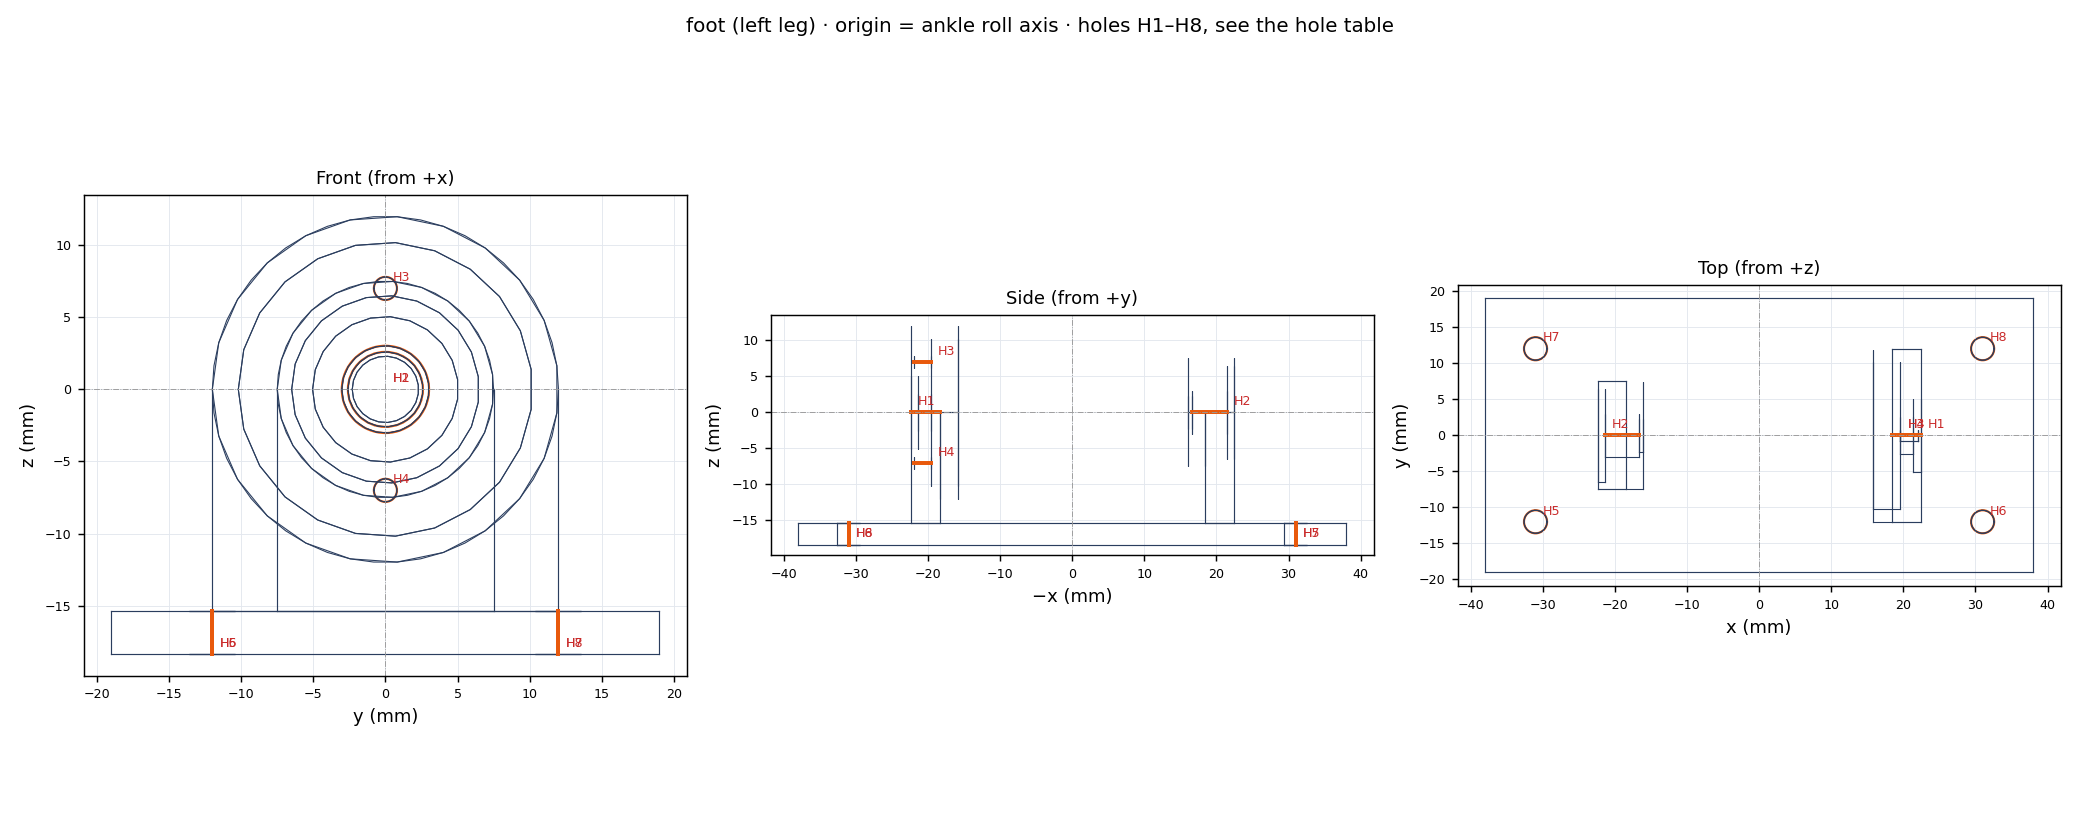
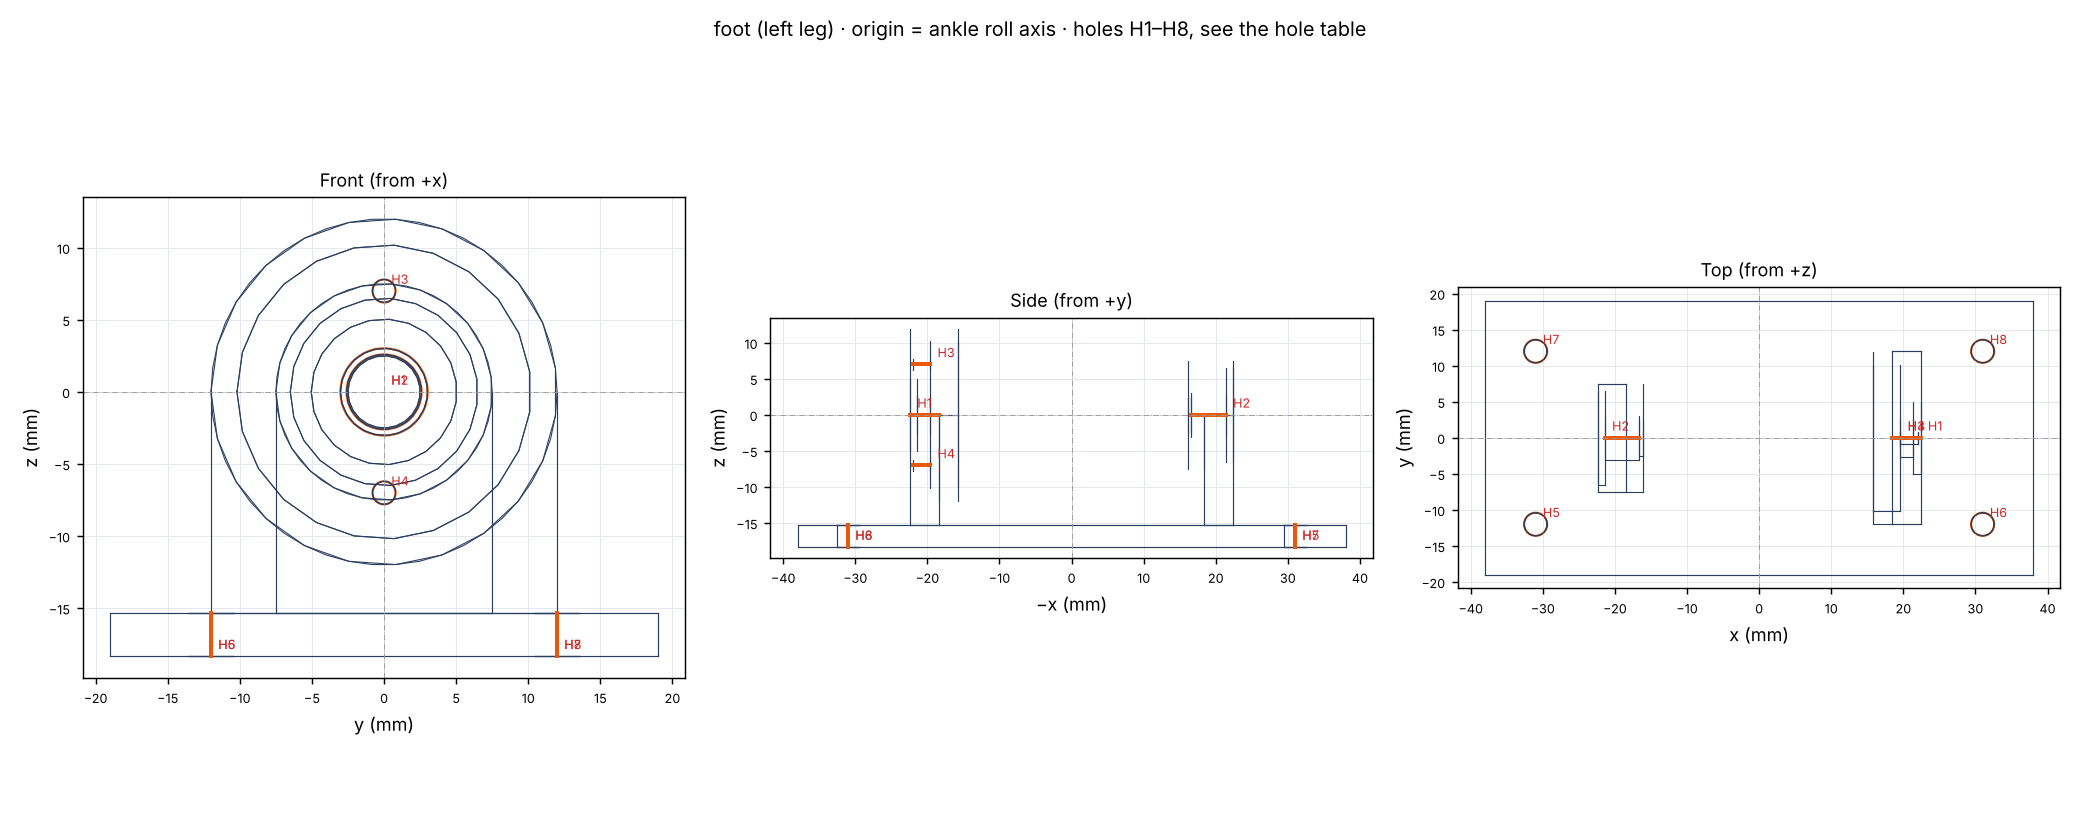
fix(mechanical): take SG90 and insert sizes from the vendors, shorten horn screws, widen the lip hole
SG90 now uses TowerPro's 23 x 12.2 body with MG90S mounting, so its shaft
sits on the idler axis in the shared pocket. Inserts are specified as
CNC Kitchen M2 (knurl 3.6 for the 3.2 hole) and M3 short. Horn screws
become ST2x3 so the tip stops 0.9 mm short of the 0.4 skin, the lip hole
grows to 5.0 for 0.4 mm round the boss, and the bearing seat is a slip
fit for a floating idler. All values are web datasheet numbers, still
marked MEASURE.

diff --git a/hardware/mechanical/hardware.py b/hardware/mechanical/hardware.py
@@ -34,12 +34,15 @@ MG92B = Servo("MG92B", length=22.8, width=12.2, case_h=22.7, shaft_off=5.9, tab_
               cable_z=(1.5, 5.5), cable_w=4.5, mass=14.0)                                       # MEASURE all
 MG90S = Servo("MG90S", 22.8, 12.2, 22.7, 5.9, 32.4, 2.5, 15.9, 27.8, 2.0, 11.8, 4.0, 4.8, 8.3, (1.5, 5.5), 4.5,
               13.4)                                                                             # MEASURE all
-# SG90 (shoulder roll, elbow, neck yaw, head pitch): plastic case, a little smaller than the MG92B. It goes into
-# the MG92B pocket (joint.py); servo_fit.py says whether it fits and what to shim or drill.
-SG90 = Servo("SG90", length=22.2, width=11.8, case_h=22.5, shaft_off=5.9, tab_span=32.2, tab_t=2.5,
-             tab_low=15.7, hole_pitch=27.6, hole_d=2.0, tower_d=11.8, tower_h=4.0, spline_d=4.8, spline_top=8.3,
+# SG90 (shoulder roll, elbow, neck yaw, head pitch). Sizes from the web, not measured yet (2026-11-18):
+#   TowerPro sells the SG90 as 23.0 × 12.2 × 29 mm and the MG90S as "identical mounting dimensions to the SG90";
+#   the datasheet table gives F = 16 (case bottom to ear underside) like the MG90S column. The old numbers here
+#   (22.2 × 11.8) come from clone datasheets and put the shaft 0.3 mm off the idler axis in the shared pocket.
+#   Spline 21 teeth, Ø4.8 (same as MG90S). The vendor MG90S STEP in cots/ disagrees on tab_low (18.4) and the
+#   tower (5.75): see docs/mechanical/test_print.md; measure one servo before the final print.
+SG90 = Servo("SG90", length=22.8, width=12.2, case_h=22.7, shaft_off=5.9, tab_span=32.4, tab_t=2.5,
+             tab_low=15.9, hole_pitch=27.8, hole_d=2.0, tower_d=11.8, tower_h=4.0, spline_d=4.8, spline_top=8.3,
              cable_z=(1.5, 5.5), cable_w=4.5, mass=9.0)                                         # MEASURE all
-
 SERVOS = {s.name: s for s in (MG92B, MG90S, SG90)}
 JOINT_SERVO = {  # which servo type sits in which joint (both sides)
     "hip_yaw": "MG90S", "hip_roll": "MG92B", "hip_pitch": "MG92B", "knee": "MG92B", "ankle_pitch": "MG92B",
@@ -80,9 +83,17 @@ FASTENERS = {
     "M2x6": Fastener("M2x6", "M2×6 socket head cap screw, ISO 4762, stainless", "ốc lục giác M2×6 inox"),
     "M2x8": Fastener("M2x8", "M2×8 socket head cap screw, ISO 4762, stainless", "ốc lục giác M2×8 inox"),
     "ST2x4": Fastener("ST2x4", "2×4 self-tapping pan head (horn to plate)", "vít tự ren đầu tròn 2×4"),
+    # horn to plate: 3 long so the tip stops 0.9 short of the 0.4 skin over the blind pilot (N3 review E-1)
+    "ST2x3": Fastener("ST2x3", "2×3 self-tapping pan head (horn to plate)", "vít tự ren đầu tròn PA 2×3"),
     "M3x6B": Fastener("M3x6B", "M3×6 button head, ISO 7380 (idler pivot)", "ốc đầu dù M3×6 inox"),
-    "INS-M2": Fastener("INS-M2", "M2 brass heat-set insert, 3 long, 3.2 OD", "tán cấy nhiệt M2 L3 OD3.2"),
-    "INS-M3": Fastener("INS-M3", "M3 brass heat-set insert, 3 long, 4.2 OD", "tán cấy nhiệt M3 L3 OD4.2"),
+    # inserts: CNC Kitchen sizes (datasheet): M2 standard L3.0, knurl Ø3.6, hole Ø3.2, wall ≥ 1.3;
+    # M3 short L3.0, knurl Ø4.6, hole Ø4.0, wall ≥ 1.6. Any insert with these sizes works; others need a coupon.
+    "INS-M2": Fastener("INS-M2", "M2 brass heat-set insert, L3.0, knurl Ø3.6, for a Ø3.2 hole (CNC Kitchen "
+                       "TC-M2x3.0 or equal)", "tán cấy nhiệt M2 dài 3, gai Ø3.6, lỗ Ø3.2"),
+    "INS-M3": Fastener("INS-M3", "M3 brass heat-set insert, L3.0, knurl Ø4.6, for a Ø4.0 hole (CNC Kitchen "
+                       "M3 short or equal)", "tán cấy nhiệt M3 dài 3, gai Ø4.6, lỗ Ø4.0"),
+    # MR63ZZ: OD 6 (0/−0.008), width 2.5 (0/−0.12). In every joint it is the floating bearing: the outer ring
+    # slides in its seat (slip fit), the joint is located along its axis by the horn on the spline.
     "MR63ZZ": Fastener("MR63ZZ", "Ball bearing 3×6×2.5, shielded", "bạc đạn MR63ZZ 3×6×2.5"),
     "W3": Fastener("W3", "M3 shim washer 3.2×5×0.5 (inner race only)", "long đền mỏng M3 3.2×5×0.5"),
     # body v4 (torso stack, sleds, arms, head)
@@ -112,7 +123,8 @@ HOLES = {
     "clr_m2": HoleSpec(2.3, 0, note="M2 clearance"),
     "clr_m3": HoleSpec(3.3, 0, note="M3 clearance"),
     "pilot_st2": HoleSpec(1.6, 0, note="pilot for 2 mm self-tapping screw through the horn"),
-    "bearing": HoleSpec(6.05, 2.5, note="MR63ZZ seat, press fit; ream lightly if tight"),
+    "bearing": HoleSpec(6.05, 2.5, note="MR63ZZ seat, SLIP fit (floating bearing): Ø6.00 pin goes in by hand, "
+                        "Ø6.10 does not; set XY hole compensation from T0, never ream free-hand"),
     "access": HoleSpec(5.2, 0, note="hex key and screwdriver access to the horn screw"),
     "ins_m2_thru": HoleSpec(3.2, 0, note="heat-set insert M2 through a 3 mm plate: press flush with the marked face"),
     "ins_m3_thru": HoleSpec(4.0, 0, note="heat-set insert M3 through the plate: press flush with the top face"),

diff --git a/hardware/mechanical/joint.py b/hardware/mechanical/joint.py
@@ -34,6 +34,7 @@ IW = (CASE[0] - C - 3.6, CASE[0] - C)               # idler wall with the M3 ins
 GAP = 0.8                                           # holder to driven plate
 IP_IN = IW[0] - GAP                                 # idler plate inner face
 LIP = 0.5
+LIP_D = 5.0                                         # lip hole round the Ø4.2 boss: 0.4 radial (was 4.6, 0.2)
 BRG = (IP_IN - LIP - 2.5, IP_IN - LIP)              # MR63ZZ
 BOSS = (BRG[1], IW[0])                              # holder boss that clamps the inner race
 WASHER = 0.5
@@ -102,6 +103,7 @@ class Joint:
     b: tuple                 # servo body direction
     servo: hw.Servo = S
     idler: bool = True
+    idler_part: str = ""     # the idler plate is a separate part (bolted to the driven link), see body.head_idler
     holes: list = field(default_factory=list)
 
     def __post_init__(self):
@@ -190,8 +192,12 @@ class Joint:
     def idler_disc(self):
         return self.place(cyl(IDLER_R, IP[0], IP[1]))
 
-    def driven_cut(self, part):
+    def driven_cut(self, part, side="both"):
+        """Horn-plate features (side "horn"), idler-plate features (side "idler") or both."""
         h = hw.HORN
+        if side == "idler":
+            s = cyl(0.01, -500, -499)                                          # empty start, far away
+            return self.place(self._idler_cut(s, part))
         s = cyl(h.disc_d / 2 + 0.2, HP[0] - 1, HORN_TOP)                      # horn disc recess (from inside)
         s = s.fuse(cyl(h.hub_d / 2 + 0.4, HP[0] - 1, HORN_TOP))
         s = s.fuse(cyl(hw.HOLES["access"].d / 2, HP[0] - 1, HP[1] + 1))       # horn screw access
@@ -202,15 +208,19 @@ class Joint:
         spec = hw.HOLES["pilot_st2"]
         for i, sw in enumerate((-1, 1)):
             s = s.fuse(cyl(spec.d / 2, HORN_TOP - 0.1, HP[1] - 0.4, 0, sw * h.screw_r))
-            self._hole(part, f"horn{i + 1}", "pilot_st2", "ST2x4 through the horn (plate to horn)",
+            self._hole(part, f"horn{i + 1}", "pilot_st2", "ST2x3 through the horn (plate to horn)",
                        (0, sw * h.screw_r, HORN_TOP), (0, 0, 1), spec.d, round(HP[1] - 0.4 - HORN_TOP, 2))
-        if self.idler:
-            s = s.fuse(cyl(2.3, IP[1] - LIP - 0.01, IP[1] + 1))                # lip hole: holder boss passes
-            s = s.fuse(cyl(hw.HOLES["bearing"].d / 2, IP[0] + CAP_T - 0.01, BRG[1]))   # bearing + head pocket
-            s = s.fuse(cyl(IDLER_R - 1.0, IP[0] - 1, IP[0] + CAP_T))             # cap recess
-            self._hole(part, "bearing", "bearing", "MR63ZZ + W3 + M3x6 button head (idler)",
-                       (0, 0, IP[0] + CAP_T), (0, 0, 1), hw.HOLES["bearing"].d, BRG[1] - IP[0] - CAP_T)
+        if self.idler and side == "both":
+            s = self._idler_cut(s, part)
         return self.place(s)
+
+    def _idler_cut(self, s, part):
+        s = s.fuse(cyl(LIP_D / 2, IP[1] - LIP - 0.01, IP[1] + 1))             # lip hole: holder boss passes
+        s = s.fuse(cyl(hw.HOLES["bearing"].d / 2, IP[0] + CAP_T - 0.01, BRG[1]))   # bearing + head pocket
+        s = s.fuse(cyl(IDLER_R - 1.0, IP[0] - 1, IP[0] + CAP_T))                 # cap recess
+        self._hole(part, "bearing", "bearing", "MR63ZZ + W3 + M3x6 button head (idler)",
+                   (0, 0, IP[0] + CAP_T), (0, 0, 1), hw.HOLES["bearing"].d, BRG[1] - IP[0] - CAP_T)
+        return s
 
     def tool_paths(self):
         """Straight tool paths to every screw of this joint, as (label, solid, part that must be off first).

diff --git a/hardware/mechanical/gen_docs.py b/hardware/mechanical/gen_docs.py
@@ -191,13 +191,13 @@ def markdown(leg, holes_by_part):
             cnt["MR63ZZ"] += 1
             cnt["W3"] += 1
             cnt["M3x6B"] += 1
-        elif f.startswith("ST2x4"):
-            cnt["ST2x4"] += 1
+        elif f.startswith("ST2x3"):
+            cnt["ST2x3"] += 1
     a("Bought parts (servos: 5 × MG92B and the hip-yaw MG90S, which sits in `hip_mount`):")
     a("")
     a("| Code | Qty | Part | Ask the shop for |")
     a("| --- | --- | --- | --- |")
-    for code in ("M2x6", "M3x6B", "ST2x4", "INS-M2", "INS-M3", "MR63ZZ", "W3"):
+    for code in ("M2x6", "M3x6B", "ST2x3", "INS-M2", "INS-M3", "MR63ZZ", "W3"):
         f = hw.FASTENERS[code]
         a(f"| {code} | {cnt[code]} | {f.desc} | {f.shop} |")
     a("")

diff --git a/hardware/mechanical/audit.py b/hardware/mechanical/audit.py
@@ -341,10 +341,10 @@ def fits(leg, body, sh):
         "sole, M2x6 (head sunk 2.0 in 3.0 TPU)": 6.0 - (LEG.TPU_SOLE - 2.0),
         "sled, M2x6 through its counterbore": 6.0 - (B.SLED_T - 2.2),
         "flange, M2x6 (shoulder and neck mounts)": 6.0 - B.FLANGE_T,
-        "horn to plate, ST2x4 through the horn": 4.0 - hw.HORN.disc_t,
+        "horn to plate, ST2x3 through the horn": 3.0 - hw.HORN.disc_t,
     }
     room = {"sole, M2x6 (head sunk 2.0 in 3.0 TPU)": LEG.SOLE_PLATE,
-            "horn to plate, ST2x4 through the horn": J.HP[1] - 0.4 - J.HORN_TOP}
+            "horn to plate, ST2x3 through the horn": J.HP[1] - 0.4 - J.HORN_TOP}
     out["engagement"] = {}
     for k, e in eng.items():
         r = room.get(k, 4.0)

diff --git a/docs/mechanical/leg_v3.md b/docs/mechanical/leg_v3.md
@@ -48,7 +48,7 @@ Printed parts:
 
 | Part | Material | Volume (cm³) | Mass, solid (g) | Print orientation | Drawing |
 | --- | --- | --- | --- | --- | --- |
-| `foot` | PLA | 12.2 | 15.1 | sole plate down; uprights vertical | [drawing](drawings/foot.png) |
+| `foot` | PLA | 12.1 | 15.1 | sole plate down; uprights vertical | [drawing](drawings/foot.png) |
 | `sole` | TPU 95A | 8.5 | 10.3 | flat, 3 walls, 30 % gyroid | [drawing](drawings/sole.png) |
 | `ankle_block` | PLA | 9.8 | 12.2 | as the hip block: −y face down | [drawing](drawings/ankle_block.png) |
 | `shin` | PLA | 8.1 | 10.1 | lying on its −y side: all four plate holes print round | [drawing](drawings/shin.png) |
@@ -65,9 +65,9 @@ Bought parts (servos: 5 × MG92B and the hip-yaw MG90S, which sits in `hip_mount
 | --- | --- | --- | --- |
 | M2x6 | 22 | M2×6 socket head cap screw, ISO 4762, stainless | ốc lục giác M2×6 inox |
 | M3x6B | 5 | M3×6 button head, ISO 7380 (idler pivot) | ốc đầu dù M3×6 inox |
-| ST2x4 | 12 | 2×4 self-tapping pan head (horn to plate) | vít tự ren đầu tròn 2×4 |
-| INS-M2 | 22 | M2 brass heat-set insert, 3 long, 3.2 OD | tán cấy nhiệt M2 L3 OD3.2 |
-| INS-M3 | 5 | M3 brass heat-set insert, 3 long, 4.2 OD | tán cấy nhiệt M3 L3 OD4.2 |
+| ST2x3 | 12 | 2×3 self-tapping pan head (horn to plate) | vít tự ren đầu tròn PA 2×3 |
+| INS-M2 | 22 | M2 brass heat-set insert, L3.0, knurl Ø3.6, for a Ø3.2 hole (CNC Kitchen TC-M2x3.0 or equal) | tán cấy nhiệt M2 dài 3, gai Ø3.6, lỗ Ø3.2 |
+| INS-M3 | 5 | M3 brass heat-set insert, L3.0, knurl Ø4.6, for a Ø4.0 hole (CNC Kitchen M3 short or equal) | tán cấy nhiệt M3 dài 3, gai Ø4.6, lỗ Ø4.0 |
 | MR63ZZ | 5 | Ball bearing 3×6×2.5, shielded | bạc đạn MR63ZZ 3×6×2.5 |
 | W3 | 5 | M3 shim washer 3.2×5×0.5 (inner race only) | long đền mỏng M3 3.2×5×0.5 |
 
@@ -88,8 +88,8 @@ is for checking a print and for pressing the inserts in the right place.
 | --- | --- | --- | --- | --- | --- | --- |
 | H1 | `ankle_roll.access` | 5.20 | through | (+22.4, +0.0, +0.0) | −x | horn centre screw (comes with the servo) |
 | H2 | `ankle_roll.bearing` | 6.05 | 4.8 | (-21.4, +0.0, +0.0) | +x | MR63ZZ + W3 + M3x6 button head (idler) |
-| H3 | `ankle_roll.horn1` | 1.60 | 2.4 | (+19.6, +0.0, +7.0) | +x | ST2x4 through the horn (plate to horn) |
-| H4 | `ankle_roll.horn2` | 1.60 | 2.4 | (+19.6, +0.0, -7.0) | +x | ST2x4 through the horn (plate to horn) |
+| H3 | `ankle_roll.horn1` | 1.60 | 2.4 | (+19.6, +0.0, +7.0) | +x | ST2x3 through the horn (plate to horn) |
+| H4 | `ankle_roll.horn2` | 1.60 | 2.4 | (+19.6, +0.0, -7.0) | +x | ST2x3 through the horn (plate to horn) |
 | H5 | `sole.ins1` | 3.20 | 3.0 | (-31.0, -12.0, -18.3) | +z | INS-M2 + M2x6 (TPU sole) |
 | H6 | `sole.ins2` | 3.20 | 3.0 | (+31.0, -12.0, -18.3) | +z | INS-M2 + M2x6 (TPU sole) |
 | H7 | `sole.ins3` | 3.20 | 3.0 | (-31.0, +12.0, -18.3) | +z | INS-M2 + M2x6 (TPU sole) |
@@ -127,12 +127,12 @@ is for checking a print and for pressing the inserts in the right place.
 | --- | --- | --- | --- | --- | --- | --- |
 | H1 | `ankle_pitch.access` | 5.20 | through | (+0.0, +22.4, -48.0) | −y | horn centre screw (comes with the servo) |
 | H2 | `ankle_pitch.bearing` | 6.05 | 4.8 | (+0.0, -21.4, -48.0) | +y | MR63ZZ + W3 + M3x6 button head (idler) |
-| H3 | `ankle_pitch.horn1` | 1.60 | 2.4 | (-7.0, +19.6, -48.0) | +y | ST2x4 through the horn (plate to horn) |
-| H4 | `ankle_pitch.horn2` | 1.60 | 2.4 | (+7.0, +19.6, -48.0) | +y | ST2x4 through the horn (plate to horn) |
+| H3 | `ankle_pitch.horn1` | 1.60 | 2.4 | (-7.0, +19.6, -48.0) | +y | ST2x3 through the horn (plate to horn) |
+| H4 | `ankle_pitch.horn2` | 1.60 | 2.4 | (+7.0, +19.6, -48.0) | +y | ST2x3 through the horn (plate to horn) |
 | H5 | `knee.access` | 5.20 | through | (+0.0, +22.4, +0.0) | −y | horn centre screw (comes with the servo) |
 | H6 | `knee.bearing` | 6.05 | 4.8 | (+0.0, -21.4, +0.0) | +y | MR63ZZ + W3 + M3x6 button head (idler) |
-| H7 | `knee.horn1` | 1.60 | 2.4 | (-7.0, +19.6, +0.0) | +y | ST2x4 through the horn (plate to horn) |
-| H8 | `knee.horn2` | 1.60 | 2.4 | (+7.0, +19.6, +0.0) | +y | ST2x4 through the horn (plate to horn) |
+| H7 | `knee.horn1` | 1.60 | 2.4 | (-7.0, +19.6, +0.0) | +y | ST2x3 through the horn (plate to horn) |
+| H8 | `knee.horn2` | 1.60 | 2.4 | (+7.0, +19.6, +0.0) | +y | ST2x3 through the horn (plate to horn) |
 
 ### `thigh` · origin: hip point H
 
@@ -142,8 +142,8 @@ is for checking a print and for pressing the inserts in the right place.
 | --- | --- | --- | --- | --- | --- | --- |
 | H1 | `hip_pitch.access` | 5.20 | through | (+0.0, +22.4, +0.0) | −y | horn centre screw (comes with the servo) |
 | H2 | `hip_pitch.bearing` | 6.05 | 4.8 | (+0.0, -21.4, +0.0) | +y | MR63ZZ + W3 + M3x6 button head (idler) |
-| H3 | `hip_pitch.horn1` | 1.60 | 2.4 | (+7.0, +19.6, +0.0) | +y | ST2x4 through the horn (plate to horn) |
-| H4 | `hip_pitch.horn2` | 1.60 | 2.4 | (-7.0, +19.6, +0.0) | +y | ST2x4 through the horn (plate to horn) |
+| H3 | `hip_pitch.horn1` | 1.60 | 2.4 | (+7.0, +19.6, +0.0) | +y | ST2x3 through the horn (plate to horn) |
+| H4 | `hip_pitch.horn2` | 1.60 | 2.4 | (-7.0, +19.6, +0.0) | +y | ST2x3 through the horn (plate to horn) |
 | H5 | `knee.ear1` | 3.20 | 4.0 | (+0.0, +4.4, -56.4) | −y | INS-M2 + M2x6 (servo ear) |
 | H6 | `knee.ear2` | 3.20 | 4.0 | (+0.0, +4.4, -28.6) | −y | INS-M2 + M2x6 (servo ear) |
 | H7 | `knee.idler_insert` | 4.00 | 3.6 | (+0.0, -16.6, -48.0) | +y | INS-M3 (idler pivot) |
@@ -169,11 +169,11 @@ is for checking a print and for pressing the inserts in the right place.
 | --- | --- | --- | --- | --- | --- | --- |
 | H1 | `hip_roll.access` | 5.20 | through | (+22.4, +0.0, +0.0) | −x | horn centre screw (comes with the servo) |
 | H2 | `hip_roll.bearing` | 6.05 | 4.8 | (-21.4, +0.0, +0.0) | +x | MR63ZZ + W3 + M3x6 button head (idler) |
-| H3 | `hip_roll.horn1` | 1.60 | 2.4 | (+19.6, +0.0, +7.0) | +x | ST2x4 through the horn (plate to horn) |
-| H4 | `hip_roll.horn2` | 1.60 | 2.4 | (+19.6, +0.0, -7.0) | +x | ST2x4 through the horn (plate to horn) |
+| H3 | `hip_roll.horn1` | 1.60 | 2.4 | (+19.6, +0.0, +7.0) | +x | ST2x3 through the horn (plate to horn) |
+| H4 | `hip_roll.horn2` | 1.60 | 2.4 | (+19.6, +0.0, -7.0) | +x | ST2x3 through the horn (plate to horn) |
 | H5 | `hip_yaw.access` | 5.20 | through | (+0.0, +0.0, +15.3) | +z | horn centre screw (comes with the servo) |
-| H6 | `hip_yaw.horn1` | 1.60 | 2.4 | (+0.0, -7.0, +18.1) | −z | ST2x4 through the horn (plate to horn) |
-| H7 | `hip_yaw.horn2` | 1.60 | 2.4 | (+0.0, +7.0, +18.1) | −z | ST2x4 through the horn (plate to horn) |
+| H6 | `hip_yaw.horn1` | 1.60 | 2.4 | (+0.0, -7.0, +18.1) | −z | ST2x3 through the horn (plate to horn) |
+| H7 | `hip_yaw.horn2` | 1.60 | 2.4 | (+0.0, +7.0, +18.1) | −z | ST2x3 through the horn (plate to horn) |
 
 ### `thrust_ring` · origin: hip yaw axis, mid stack
 
@@ -199,7 +199,7 @@ is for checking a print and for pressing the inserts in the right place.
 | H7 | `ring.ins1` | 3.20 | 4.0 | (-4.0, -14.5, -11.3) | +z | INS-M2 + M2x6 (thrust ring) |
 | H8 | `ring.ins2` | 3.20 | 4.0 | (-4.0, +14.5, -11.3) | +z | INS-M2 + M2x6 (thrust ring) |
 
-Hole rules: `ins_m2` Ø3.2 (heat-set insert M2: press with a soldering iron at 220 °C); `ins_m3` Ø4.0 (heat-set insert M3: press with a soldering iron at 220 °C); `clr_m2` Ø2.3 (M2 clearance); `clr_m3` Ø3.3 (M3 clearance); `pilot_st2` Ø1.6 (pilot for 2 mm self-tapping screw through the horn); `bearing` Ø6.05 (MR63ZZ seat, press fit; ream lightly if tight); `access` Ø5.2 (hex key and screwdriver access to the horn screw).
+Hole rules: `ins_m2` Ø3.2 (heat-set insert M2: press with a soldering iron at 220 °C); `ins_m3` Ø4.0 (heat-set insert M3: press with a soldering iron at 220 °C); `clr_m2` Ø2.3 (M2 clearance); `clr_m3` Ø3.3 (M3 clearance); `pilot_st2` Ø1.6 (pilot for 2 mm self-tapping screw through the horn); `bearing` Ø6.05 (MR63ZZ seat, SLIP fit (floating bearing): Ø6.00 pin goes in by hand, Ø6.10 does not; set XY hole compensation from T0, never ream free-hand); `access` Ø5.2 (hex key and screwdriver access to the horn screw).
 
 ## Assembly, one leg
 
